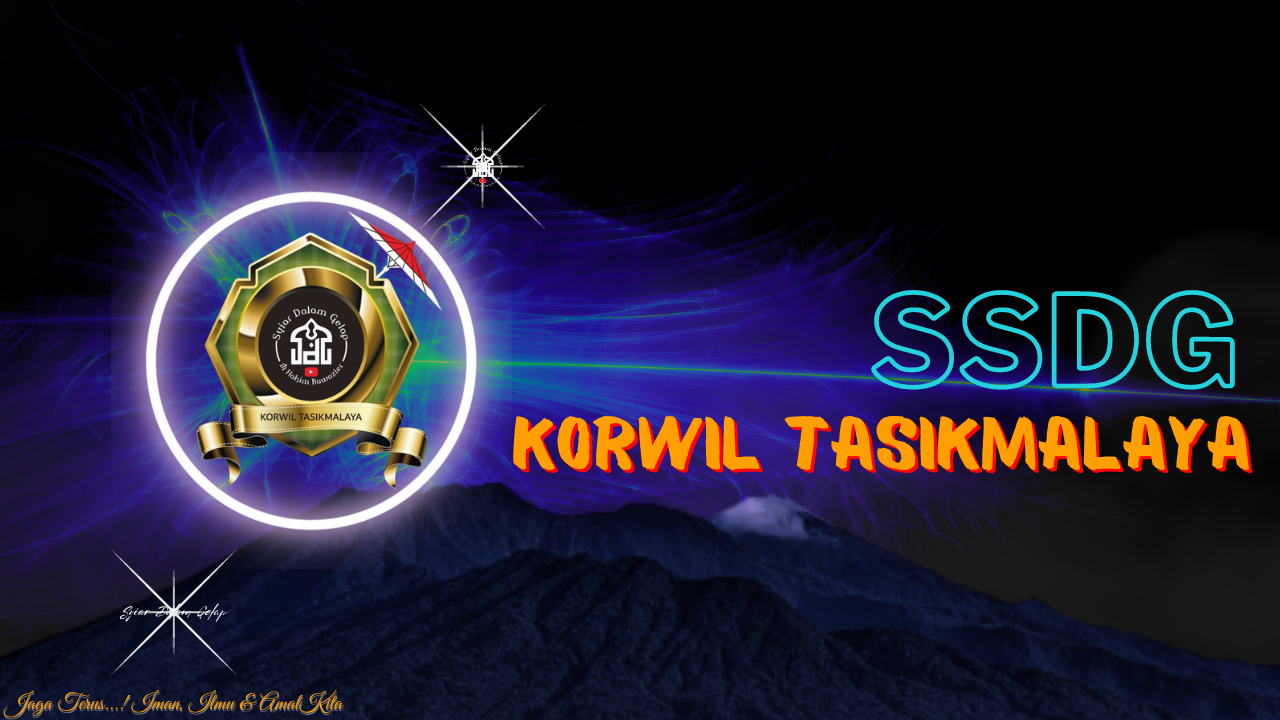
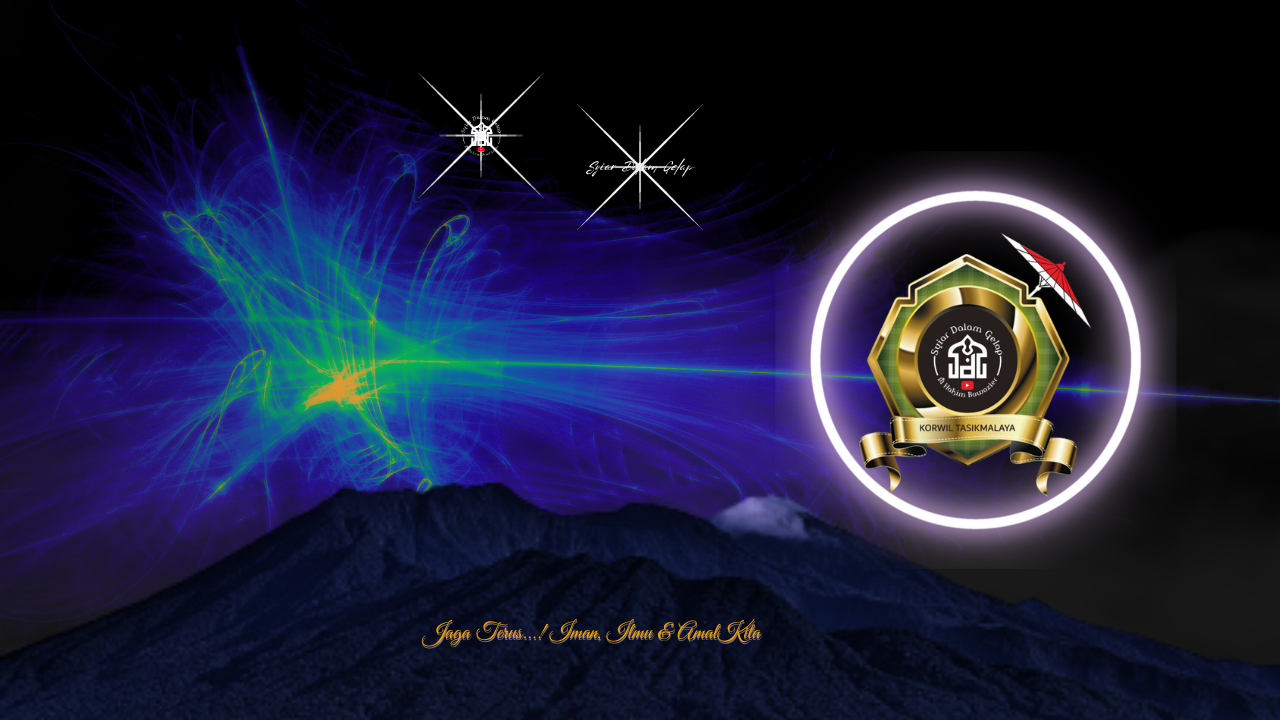
image hero

diff --git a/app/components/HeroSection/index.jsx b/app/components/HeroSection/index.jsx
@@ -4,64 +4,60 @@ import React from "react";
 import Link from "next/link";
 import { TypeAnimation } from "react-type-animation";
 
-const Index = ()=> {
+const HeroSection = ()=> {
     return(
-      <section className="lg:py-16">
-        <div className="grid grid-cols-1 mb-20 mt-10 sm:grid-cols-12 " >
-         <div className="col-span-7 place-self-center text-  sm:text-left ">       
-              <h1 className="text-white mb-4 text-4xl font-extrabold ">
-              <span className="text-transparent bg-clip-text bg-gradient-to-r from-blue-600 to-yellow-400">
-                SSDG KORWIL TASIKMALAYA{""}
-              </span>
-              <br></br>
-              <TypeAnimation
-                sequence={[
-                  "Syiar Dalam Gelap",
-                  1000,
-                  "M Hakim Bawazier",
-                  1000,
-                ]}
-                wrapper="span"
-                speed={50}
-                repeat={Infinity}
-              />
-              </h1>
-              <p className="text-[#ADB7BE] text-base sm:text-md text-md lg:text-sm mb-6"> 
-                  Jaga Terus...! Iman, Ilmu & Amal kita
-              </p>
-              <div>
-                <Link
-                  href="/"
-                  className="px-6 py-3 text-center inline-block w-full sm:w-fit rounded-full mr-4 bg-gradient-to-br from-blue-600 via-blue-200 to-yellow-400 hover:bg-slate-200 text-black"
-                  >
-                    Information
-                </Link>
-                <Link
-                  href="/datakas"
-                  className="px-6 mt-5 py-3 text-center inline-block w-full sm:w-fit rounded-full mr-4 bg-gradient-to-br from-blue-600 via-blue-200 to-yellow-400 hover:bg-slate-200 text-black"
-                  >
-                    Data Iuran KAS
-                </Link>
-              </div>
-            </div>
-            <div className="col-span-5 place-self-center lg:mt-0 ">
-              <div className="rounded-full  w-[250px] h-[250px] lg:w-[400px] lg:h-[400px] relative">
-                
-                <Image 
-                  className="absolute transform -translate-x-1/2 -translate-y-1/2 top-1/2 left-1/2 "
-                  src="/images/logo.png" 
-                  alt="Image Alt"
-                  width={800} 
-                  height={800}
-                 
+    <div className='w-full h-screen'>
+        <Image
+            className='top-0 left-0 w-full h-screen object-cover'
+            src="/images/img_hero.png" 
+            alt='hero'
+            width={1000}
+             height={1000}
+            
+        />
+         <div className='bg-black/30 absolute top-0 left-0 w-full h-screen' />
+            <div className='absolute top-0 w-full h-full flex flex-col justify-center text-white'>
+                <div className='md:left-[10%] max-w-[1100px] m-auto absolute p-4'>      
+                    <h1 className="text-white mb-4 text-4xl font-extrabold ">
+                    <span className="text-transparent bg-clip-text bg-gradient-to-r from-blue-600 to-yellow-400">
+                        SSDG KORWIL TASIKMALAYA{""}
+                    </span>
+                <br></br>
+                <TypeAnimation
+                    sequence={[
+                    "Syiar Dalam Gelap",
+                    700,
+                    "M Hakim Bawazier",
+                    700,
+                    ]}
+                    wrapper="span"
+                    speed={50}
+                    repeat={Infinity}
                 />
-              </div>
-         </div>
-        </div>
+                </h1>
+                <p className="text-[#ADB7BE] text-base sm:text-md text-md lg:text-sm mb-6"> 
+                    Jaga Terus...! Iman, Ilmu & Amal kita
+                </p>
+                <div>
+                    <Link
+                    href="/"
+                    className="px-6 py-3 text-center inline-block w-full sm:w-fit rounded-full mr-4 bg-gradient-to-br from-blue-600 via-blue-200 to-red-400 hover:bg-slate-200 text-black"
+                    >
+                        Information
+                    </Link>
+                    <Link
+                    href="/datakas"
+                    className="px-6 mt-5 py-3 text-center inline-block w-full sm:w-fit rounded-full mr-4 bg-gradient-to-br from-blue-700 via-blue-200 to-red-400 hover:bg-slate-200 text-black"
+                    >
+                        Data Iuran KAS
+                    </Link>
+                </div>
+                </div>
+            </div>
+            <br></br>
         <br></br>
-        <br></br>
-      </section>
+      </div>
     );
 };
 
-export default Index;
+export default HeroSection;

diff --git a/utils/motion.jsx b/utils/motion.jsx
@@ -1,0 +1,161 @@
+export const navVariants = {
+    hidden: {
+      opacity: 0,
+      y: -50,
+      transition: {
+        type: 'spring',
+        stiffness: 300,
+        damping: 140,
+      },
+    },
+    show: {
+      opacity: 1,
+      y: 0,
+      transition: {
+        type: 'spring',
+        stiffness: 80,
+        delay: 1,
+      },
+    },
+  };
+  
+  export const slideIn = (direction, type, delay, duration) => ({
+    hidden: {
+      x: direction === 'left' ? '-100%' : direction === 'right' ? '100%' : 0,
+      y: direction === 'up' ? '100%' : direction === 'down' ? '100%' : 0,
+    },
+    show: {
+      x: 0,
+      y: 0,
+      transition: {
+        type,
+        delay,
+        duration,
+        ease: 'easeOut',
+      },
+    },
+  });
+  
+  export const staggerContainer = (staggerChildren, delayChildren) => ({
+    hidden: {},
+    show: {
+      transition: {
+        staggerChildren,
+        delayChildren,
+      },
+    },
+  });
+  
+  export const textVariant = (delay) => ({
+    hidden: {
+      y: 50,
+      opacity: 0,
+    },
+    show: {
+      y: 0,
+      opacity: 1,
+      transition: {
+        type: 'spring',
+        duration: 1.25,
+        delay,
+      },
+    },
+  });
+  
+  export const textContainer = {
+    hidden: {
+      opacity: 0,
+    },
+    show: (i = 1) => ({
+      opacity: 1,
+      transition: { staggerChildren: 0.1, delayChildren: i * 0.1 },
+    }),
+  };
+  
+  export const textVariant2 = {
+    hidden: {
+      opacity: 0,
+      y: 20,
+    },
+    show: {
+      opacity: 1,
+      y: 0,
+      transition: {
+        type: 'tween',
+        ease: 'easeIn',
+      },
+    },
+  };
+  
+  export const fadeIn = (direction, type, delay, duration) => ({
+    hidden: {
+      x: direction === 'left' ? 100 : direction === 'right' ? -100 : 0,
+      y: direction === 'up' ? 100 : direction === 'down' ? -100 : 0,
+      opacity: 0,
+    },
+    show: {
+      x: 0,
+      y: 0,
+      opacity: 1,
+      transition: {
+        type,
+        delay,
+        duration,
+        ease: 'easeOut',
+      },
+    },
+  });
+  
+  export const planetVariants = (direction) => ({
+    hidden: {
+      x: direction === 'left' ? '-100%' : '100%',
+      rotate: 120,
+    },
+    show: {
+      x: 0,
+      rotate: 0,
+      transition: {
+        type: 'spring',
+        duration: 1.8,
+        delay: 0.5,
+      },
+    },
+  });
+  
+  export const zoomIn = (delay, duration) => ({
+    hidden: {
+      scale: 0,
+      opacity: 0,
+    },
+    show: {
+      scale: 1,
+      opacity: 1,
+      transition: {
+        type: 'tween',
+        delay,
+        duration,
+        ease: 'easeOut',
+      },
+    },
+  });
+  
+  export const footerVariants = {
+    hidden: {
+      opacity: 0,
+      y: 50,
+      transition: {
+        type: 'spring',
+        stiffness: 300,
+        damping: 140,
+      },
+    },
+    show: {
+      opacity: 1,
+      y: 0,
+      transition: {
+        type: 'spring',
+        stiffness: 80,
+        delay: 0.5,
+      },
+    },
+  };

diff --git a/styles/index.jsx b/styles/index.jsx
@@ -1,0 +1,23 @@
+const styles = {
+    innerWidth: '2xl:max-w-[1280px] w-full',
+    interWidth: 'lg:w-[80%] w-[100%]',
+  
+    paddings: 'sm:p-16 xs:p-8 px-6 py-12',
+    yPaddings: 'sm:py-16 xs:py-8 py-12',
+    xPaddings: 'sm:px-16 px-6',
+    topPaddings: 'sm:pt-16 xs:pt-8 pt-12',
+    bottomPaddings: 'sm:pb-16 xs:pb-8 pb-12',
+  
+    flexCenter: 'flex justify-center items-center',
+    flexStart: 'flex justify-start items-start',
+    flexEnd: 'flex justify-end',
+    navPadding: 'pt-[98px]',
+  
+    // hero section
+    heroHeading:
+        'font-bold lg:text-[144px] md:text-[100px] sm:text-[60px] text-[44px] lg:leading-[158.4px] md:leading-[114.4px] sm:leading-[74.4px] leading-[64.4px] uppercase text-white',
+    heroDText:
+        'md:w-[212px] sm:w-[80px] w-[60px] md:h-[108px] sm:h-[48px] h-[38px] md:border-[18px] border-[9px] rounded-r-[50px] border-white sm:mx-2 mx-[6px]',
+  };
+  
+  export default styles;

diff --git a/app/page.tsx b/app/page.tsx
@@ -3,15 +3,17 @@ import HeroSection  from './components/HeroSection'
 import PendaftaranSection  from './components/PendaftaranSection'
 import Footer from './components/Footer'
 
-export default function Home() {
+const Home = () => {
   return (
-    <main className="flex min-h-screen bg-[#121212] flex-col">
+    <div className="bg-[#121212] overflow-hidden">
       <Navbar />
-        <div className="container mt-20 mx-auto px-12 py-4">
+        {/* <div className="container mt-20 mx-auto px-12 py-4"> */}
           <HeroSection />
           <PendaftaranSection/>
-      </div>
+      {/* </div> */}
       <Footer />
-    </main>
+    </div>
   )
 }
+
+export default Home;

diff --git a/styles/globals.css b/styles/globals.css
@@ -2,6 +2,7 @@
 @tailwind components;
 @tailwind utilities;
 
+
 html {
   scroll-behavior: smooth;
 }
@@ -35,5 +36,10 @@ html.normal-scroll {
   }
   button {
     @apply shadow-xl shadow-gray-400 rounded-xl uppercase bg-gradient-to-r from-[#56651e5] to-[#709dff] text-white;
+  }
+
+  .nextimg{
+    width: 100%;
+    height: auto;
   }
 }
